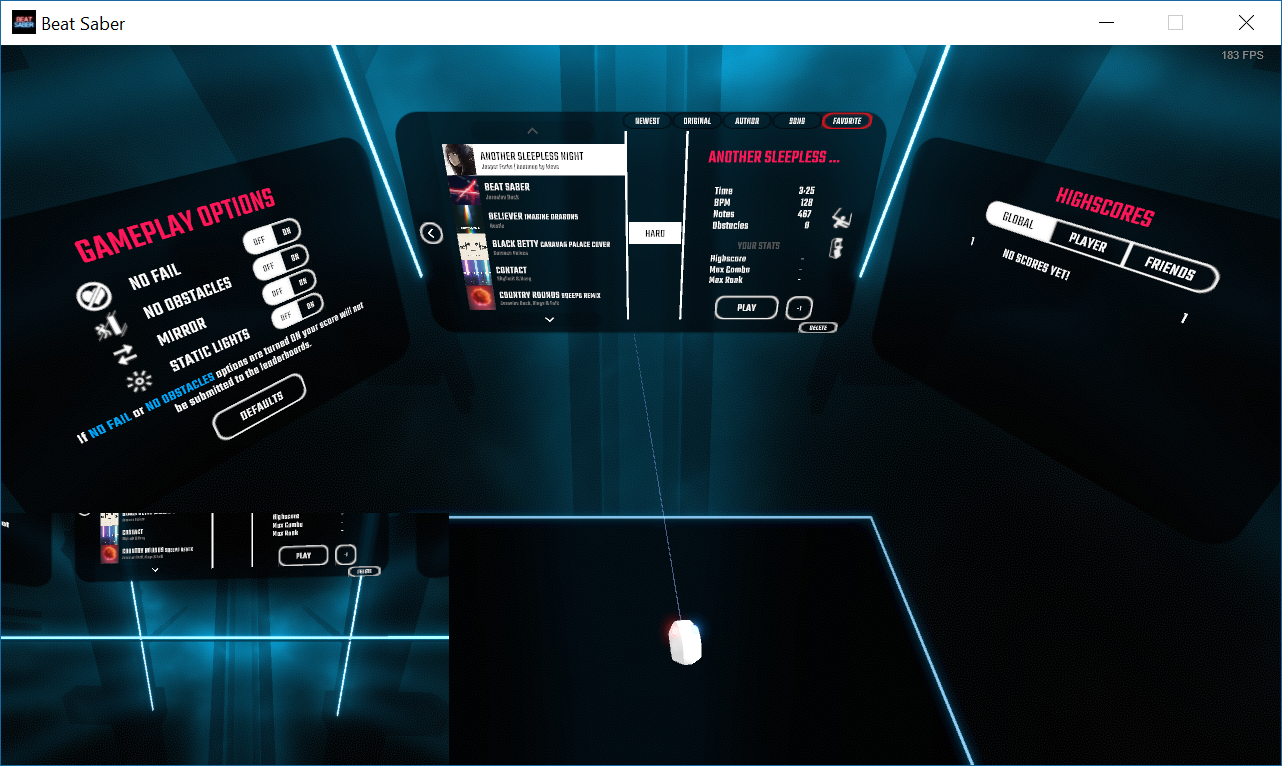
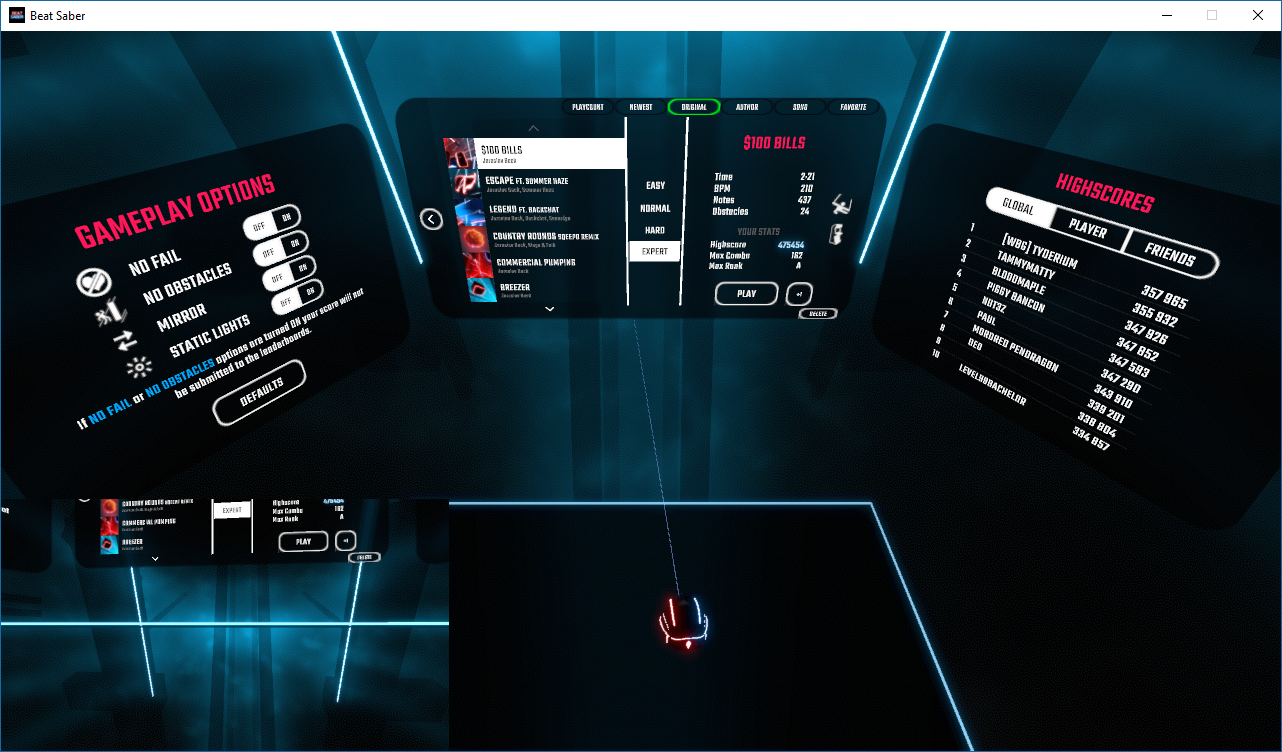
Updated Readme and screenshot.

diff --git a/README.md b/README.md
@@ -10,18 +10,19 @@ A plugin for customizing the in-game song browser.
 ## Features
 - Marking a song as favorite
 - Currently supports these sorting methods:
-  - Default: By song name.
-  - Author: By song author name then by song name.
   - Favorite: Anything marked favorite followed by the Default method.
+  - Song: By song name (default).
+  - Author: By song author name then by song name.  
   - Original: Match the original sorting you would normally get after SongLoaderPlugin.
   - Newest: Sort songs by their last write time.
+  - PlayCount: Sort by playcount (sum of play counts across all difficulties for a given song).
 - Clicking a sorting method will resort the song list immediately.
+- Sort buttons can be pressed a second time to invert the sorting.
 
 ## Status
-- Mostly Working!
+- Working!
 
 ### Known Issues
 - Might be some issues with game modes other than SoloStandard.
 - Some issues might occur if a new song is added in-game.
-- Add to favorites button shows wrong text sometimes in `not favorite` sort mode.
 
